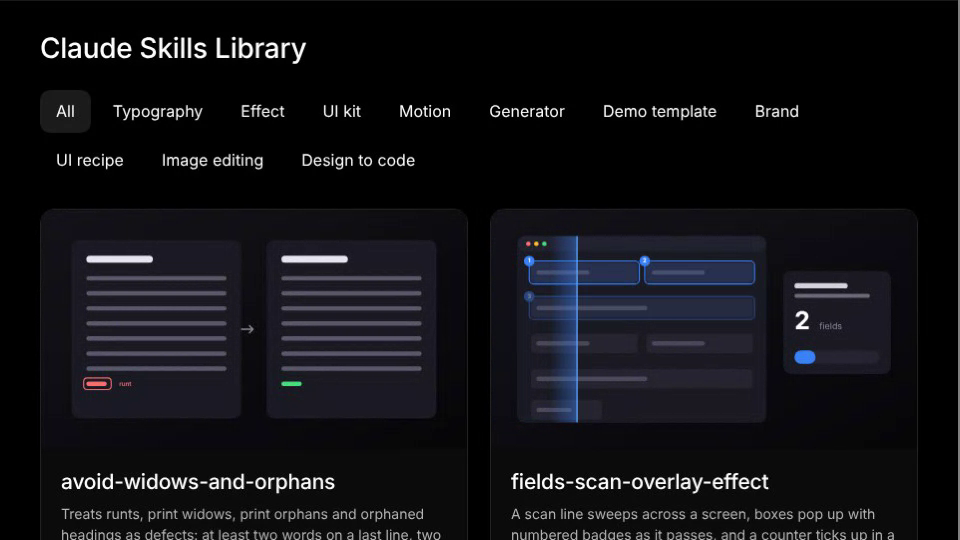
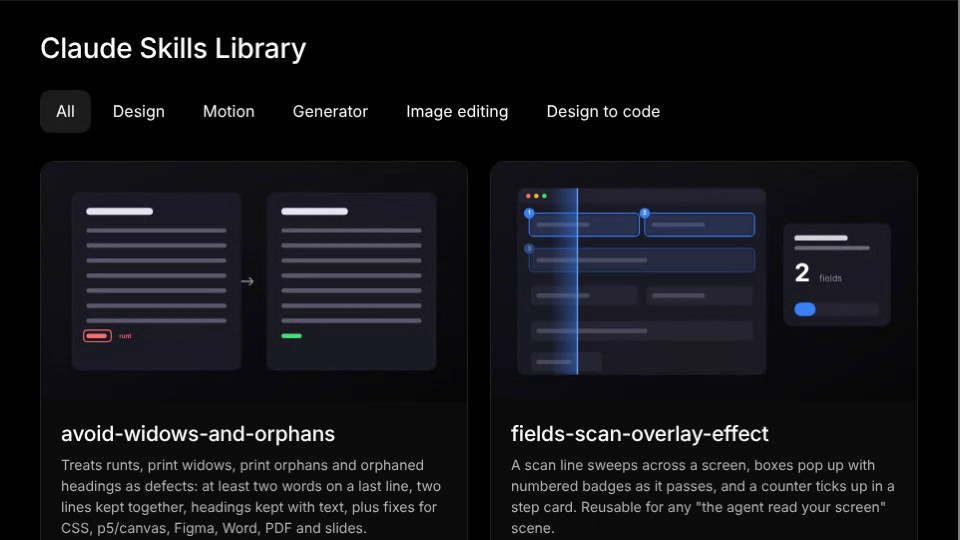
Skills Library: consolidate categories to five
Claude-Session: https://claude.ai/code/session_01AHeBdzfwQsZW7SD9XQB6B1

diff --git a/skills-library/index.html b/skills-library/index.html
@@ -59,7 +59,7 @@ var SKILLS=[
   {
     title:'avoid-widows-and-orphans',
     desc:'Treats runts, print widows, print orphans and orphaned headings as defects: at least two words on a last line, two lines kept together, headings kept with text, plus fixes for CSS, p5/canvas, Figma, Word, PDF and slides.',
-    category:'Typography', cIcon:'design',
+    category:'Design', cIcon:'design',
     use:'Any text layout or render', uIcon:'image',
     art:'art/avoid-widows-and-orphans.svg',
     alt:'A paragraph with a one-word last line marked as a runt beside the same paragraph rebalanced with a longer last line and a green check'
@@ -67,7 +67,7 @@ var SKILLS=[
   {
     title:'fields-scan-overlay-effect',
     desc:'A scan line sweeps across a screen, boxes pop up with numbered badges as it passes, and a counter ticks up in a step card. Reusable for any "the agent read your screen" scene.',
-    category:'Effect', cIcon:'motion',
+    category:'Motion', cIcon:'motion',
     use:'Agent screen-reading scenes', uIcon:'mockup',
     art:'art/fields-scan-overlay.svg',
     alt:'A blue scan line sweeps across a form, highlighting each field with a numbered badge while a counter in a step card ticks up'
@@ -75,7 +75,7 @@ var SKILLS=[
   {
     title:'brand-neutral-ui-mockup-kit',
     desc:'Fake product UI parts with fixed geometry and tokens (navy, cream, blue, amber): dashboard window, calendar day card, DATASETS toggle card, chip grid and a glassy shadowed card.',
-    category:'UI kit', cIcon:'design',
+    category:'Design', cIcon:'design',
     use:'Scenes and explainer mockups', uIcon:'mockup',
     art:'art/brand-neutral-ui-mockup-kit.svg',
     alt:'A navy dashboard window, cream calendar card, toggle card, chip grid and glassy card floating gently over a dark background, with navy, cream, blue and amber swatches'
@@ -99,7 +99,7 @@ var SKILLS=[
   {
     title:'scripted-demo-animation-with-a-cursor',
     desc:'Each scene is an async timeline: the cursor moves, clicks, state changes, then the next scene starts. Includes a faster clip mode that skips scenes and a pause button.',
-    category:'Demo template', cIcon:'motion',
+    category:'Motion', cIcon:'motion',
     use:'Flow-style product demos', uIcon:'mockup',
     art:'art/scripted-cursor-demo.svg',
     alt:'A cursor glides to a button, clicks, and cards appear as scene dots advance, with a pause button and clip-speed chip below'
@@ -107,7 +107,7 @@ var SKILLS=[
   {
     title:'palette-and-brand-constraint-handling',
     desc:'Samples the exact ring colours from reference images, maps them onto only the approved brand combinations, and checks contrast against the background.',
-    category:'Brand', cIcon:'design',
+    category:'Design', cIcon:'design',
     use:'Generated artwork and themes', uIcon:'image',
     art:'art/palette-brand-constraints.svg',
     alt:'Colour samples taken along a radius of concentric rings are matched to approved swatches, with a muddy mid-green rejected for low contrast'
@@ -115,7 +115,7 @@ var SKILLS=[
   {
     title:'tile-to-fullscreen-section-transition',
     desc:'A reusable UI recipe: a plain colour block grows from the tile, the real panel swaps in beneath it, then content fades up in a stagger. The reverse shrinks it back.',
-    category:'UI recipe', cIcon:'motion',
+    category:'Motion', cIcon:'motion',
     use:'Home tiles and detail panels', uIcon:'mockup',
     art:'art/tile-to-fullscreen.svg',
     alt:'A colour block grows from one tile of a grid to fill the frame, content fades up in a stagger, then the block shrinks back into the tile'
